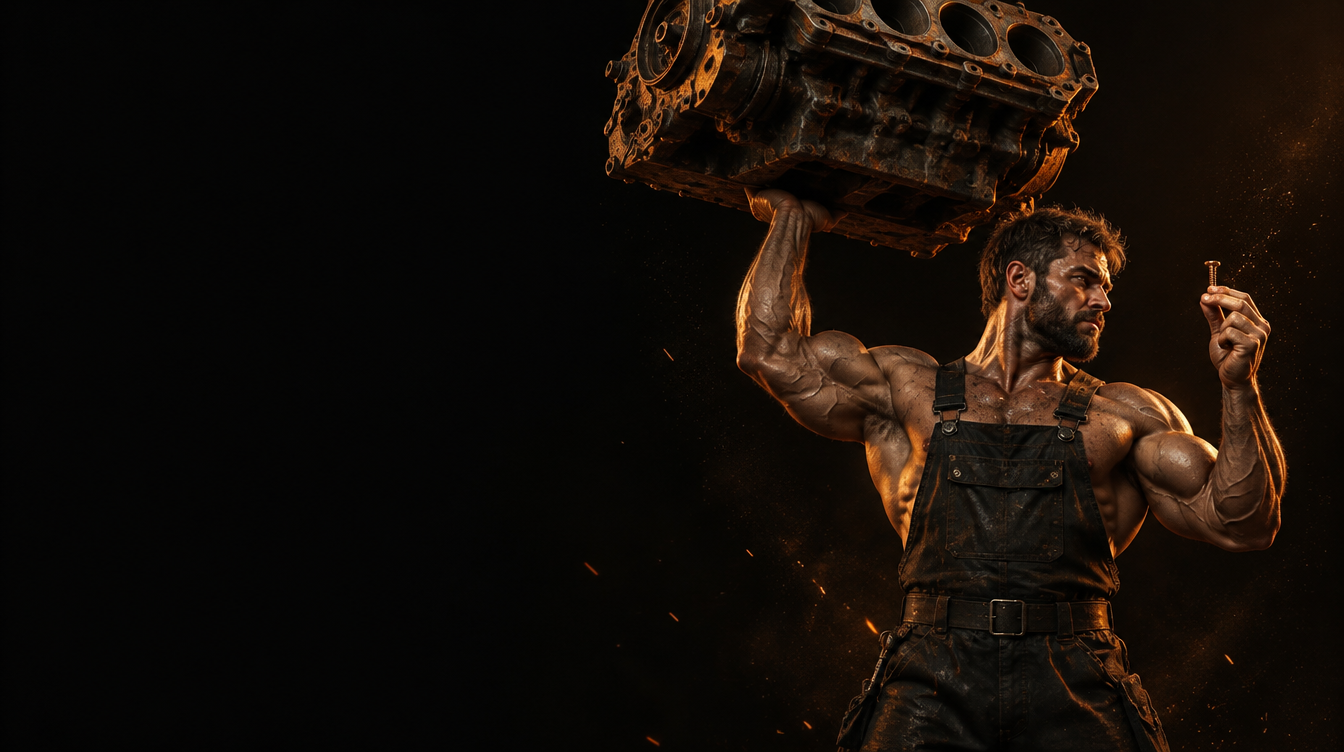
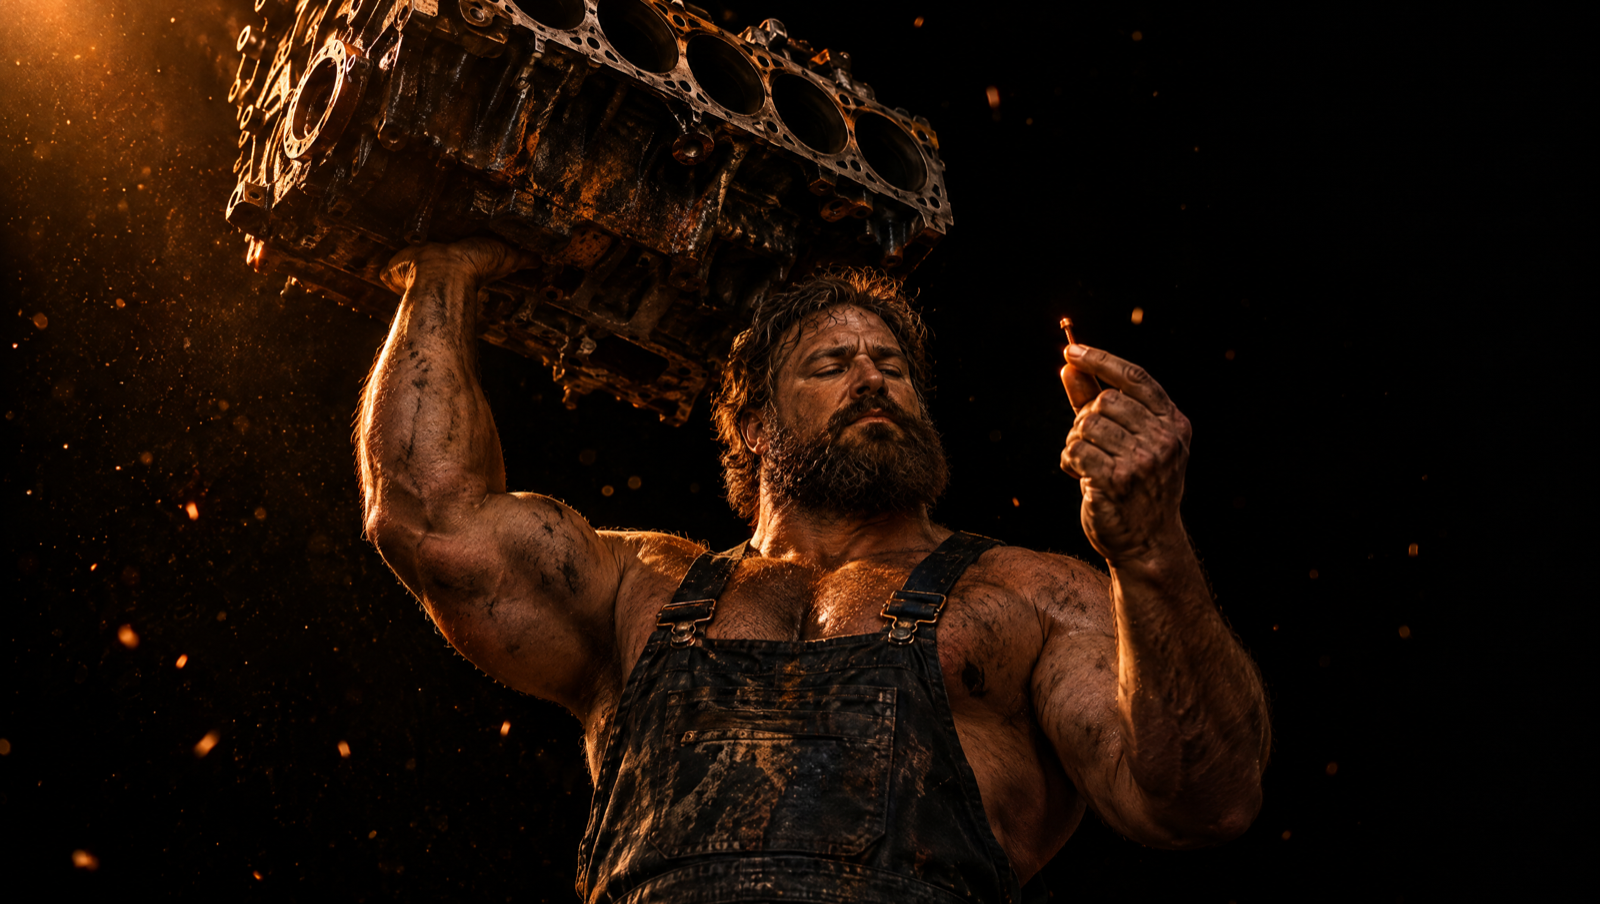
assets: album-cover social preview (series v2)

diff --git a/assets/social-preview.html b/assets/social-preview.html
@@ -1,11 +1,8 @@
 <!DOCTYPE html><html><head><meta charset="utf-8"><style>
-html,body{margin:0;padding:0;background:#0B0B0D}
-body{position:relative;font-family:-apple-system,"SF Pro Display","Helvetica Neue",Helvetica,sans-serif}
-.org{position:absolute;left:96px;top:96px;font-size:18px;line-height:18px;color:#6E6A66}
-.blk{position:absolute;left:96px;bottom:96px}
-.w{font-size:96px;line-height:100px;font-weight:700;letter-spacing:-0.02em;color:#F2EFEA}
-.t{font-size:28px;line-height:34px;font-weight:500;color:#C9823B;margin-top:10px}
-</style></head><body style="margin:0;width:1280px;height:640px;overflow:hidden;background:#0B0B0D url('social-preview-bg.png') center/cover no-repeat">
-<div class="org">zayvillion-dot</div>
-<div class="blk"><div class="w">overhaul</div><div class="t">Live test-pass → batched deploys.</div></div>
-</body></html>
+html,body{margin:0;width:1280px;height:640px;overflow:hidden}
+body{position:relative;background:#0B0B0D url('social-preview-bg.png') center/cover no-repeat;font-family:-apple-system,"SF Pro Display","Helvetica Neue",Helvetica,sans-serif}
+.g{position:absolute;inset:0;background:linear-gradient(to top,rgba(11,11,13,.82) 0%,rgba(11,11,13,.35) 38%,transparent 62%)}
+.o{position:absolute;left:72px;top:34px;font-size:18px;color:#8A847E;letter-spacing:.02em}
+.w{position:absolute;left:72px;bottom:150px;font-size:150px;font-weight:800;letter-spacing:-0.04em;line-height:1;color:#F2EFEA;opacity:.94;white-space:nowrap;transform:translateY(0.2em);}
+.t{position:absolute;left:76px;bottom:70px;font-size:30px;font-weight:600;letter-spacing:.01em;color:#C9823B}
+</style></head><body><div class="g"></div><div class="o">zayvillion-dot</div><div class="w">overhaul</div><div class="t">Live test-pass → batched deploys.</div></body></html>

diff --git a/assets/social-preview-v1.html b/assets/social-preview-v1.html
@@ -1,0 +1,11 @@
+<!DOCTYPE html><html><head><meta charset="utf-8"><style>
+html,body{margin:0;padding:0;background:#0B0B0D}
+body{position:relative;font-family:-apple-system,"SF Pro Display","Helvetica Neue",Helvetica,sans-serif}
+.org{position:absolute;left:96px;top:96px;font-size:18px;line-height:18px;color:#6E6A66}
+.blk{position:absolute;left:96px;bottom:96px}
+.w{font-size:96px;line-height:100px;font-weight:700;letter-spacing:-0.02em;color:#F2EFEA}
+.t{font-size:28px;line-height:34px;font-weight:500;color:#C9823B;margin-top:10px}
+</style></head><body style="margin:0;width:1280px;height:640px;overflow:hidden;background:#0B0B0D url('social-preview-bg.png') center/cover no-repeat">
+<div class="org">zayvillion-dot</div>
+<div class="blk"><div class="w">overhaul</div><div class="t">Live test-pass → batched deploys.</div></div>
+</body></html>
